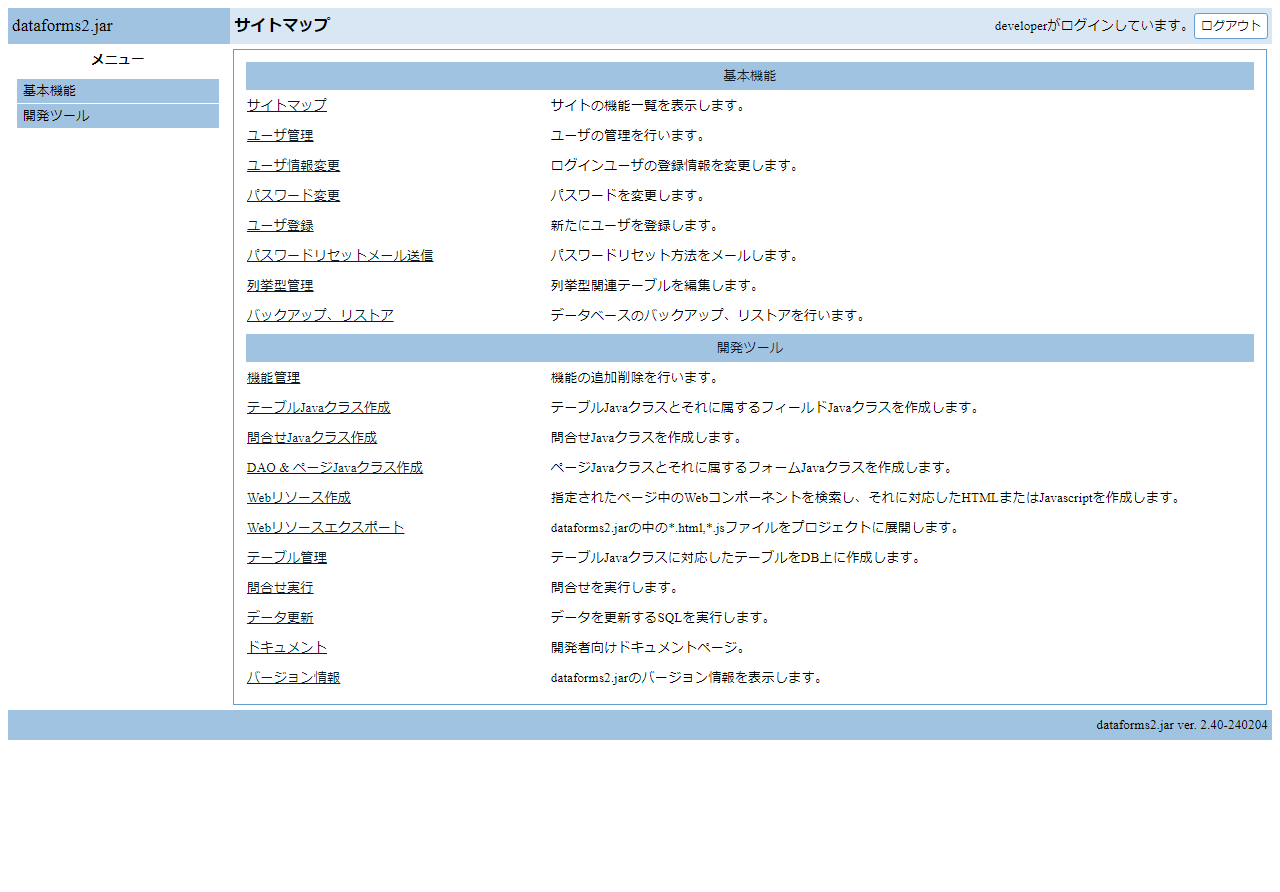
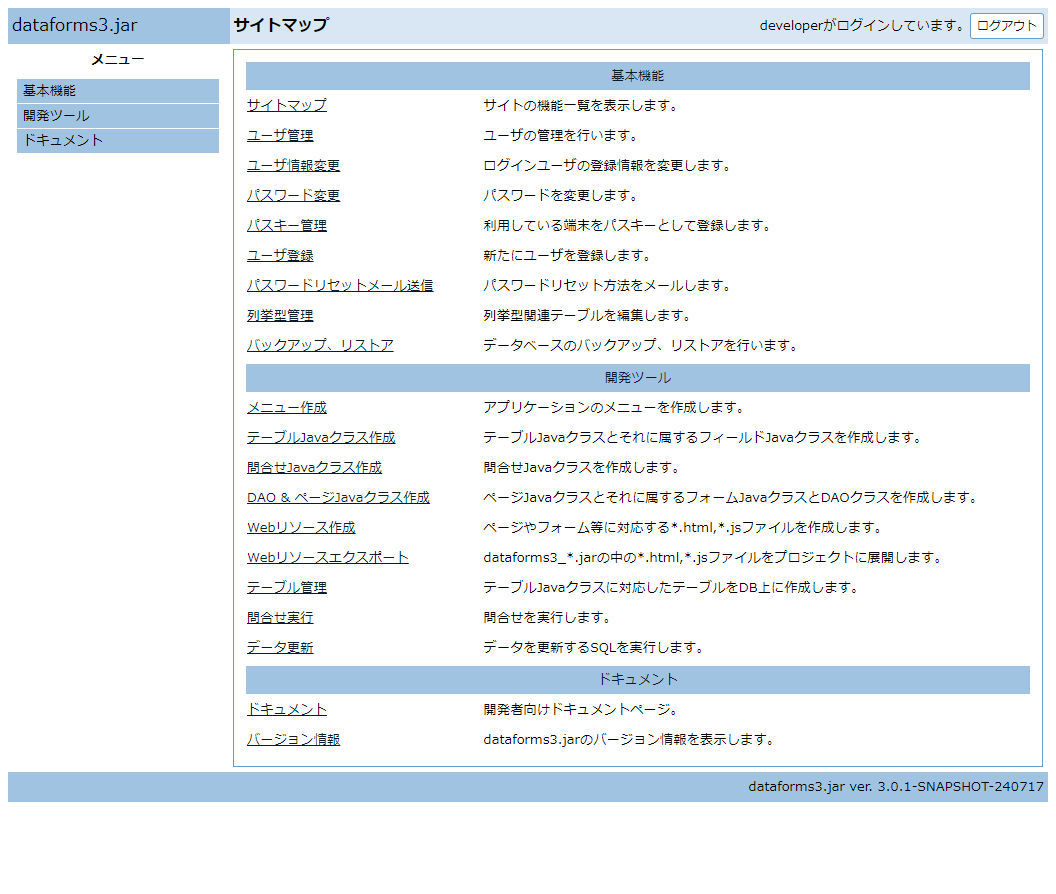
ドキュメントの修正。

Changed region(s): [[0.0, 0.0, 1.0, 0.9081], [0.7188, 0.0, 1.0, 0.1211], [0.0, 0.0, 0.125, 0.0908]]

diff --git a/src/main/java/META-INF/resources/dataforms/doc/2.2.devtool/devtool.html b/src/main/java/META-INF/resources/dataforms/doc/2.2.devtool/devtool.html
@@ -59,16 +59,16 @@
 			</thead>
 			<tbody>
 				<tr>
-					<td style="text-align: right;">1</td>
+					<td class="num">1</td>
 					<td>
-						機能管理
+						メニュー作成
 					</td>
 					<td>
 						機能(Javaのパッケージ)の追加、削除を行います。これはメニューのグループになります。
 					</td>
 				</tr>
 				<tr>
-					<td style="text-align: right;">2</td>
+					<td class="num">2</td>
 					<td>
 						テーブルJavaクラス作成
 					</td>
@@ -77,7 +77,7 @@
 					</td>
 				</tr>
 				<tr>
-					<td style="text-align: right;">3</td>
+					<td class="num">3</td>
 					<td>
 						問合せJavaクラス作成
 					</td>
@@ -86,7 +86,7 @@
 					</td>
 				</tr>
 				<tr>
-					<td style="text-align: right;">4</td>
+					<td class="num">4</td>
 					<td>
 						DAO Javaクラス作成
 					</td>
@@ -95,7 +95,7 @@
 					</td>
 				</tr>
 				<tr>
-					<td style="text-align: right;">5</td>
+					<td class="num">5</td>
 					<td>
 						ページJavaクラス作成
 					</td>
@@ -104,7 +104,7 @@
 					</td>
 				</tr>
 				<tr>
-					<td style="text-align: right;">6</td>
+					<td class="num">6</td>
 					<td>
 						Webリソース作成
 					</td>
@@ -113,7 +113,7 @@
 					</td>
 				</tr>
 				<tr>
-					<td style="text-align: right;">7</td>
+					<td class="num">7</td>
 					<td>
 						Webリソースエクスポート
 					</td>
@@ -122,7 +122,7 @@
 					</td>
 				</tr>
 				<tr>
-					<td style="text-align: right;">8</td>
+					<td class="num">8</td>
 					<td>
 						テーブル管理
 					</td>
@@ -131,12 +131,21 @@
 					</td>
 				</tr>
 				<tr>
-					<td style="text-align: right;">9</td>
+					<td class="num">9</td>
 					<td>
 						問合せ実行
 					</td>
 					<td>
 						問合せを実行します。
+					</td>
+				</tr>
+				<tr>
+					<td class="num">10</td>
+					<td>
+						データ更新
+					</td>
+					<td>
+						更新系のSQLを実行します。
 					</td>
 				</tr>
 			</tbody>
@@ -147,7 +156,7 @@
 		</p>
 		<ol>
 			<li>
-				「機能管理」を使用して、Javaのパッケージを登録します。
+				「メニュー作成」を使用して、メニューのグループとJavaのパッケージの対応表を作成します。
 			</li>
 			<li>
 				「テーブルJavaクラス作成」を使用して、テーブルのレイアウトを作成します。<br/>
@@ -206,23 +215,39 @@
 			</tbody>
 		</table>
 		<p>
-			src/main/webapp/WEB-INF/web.xmlに以下の設定を記述してください。
-			web.xmlにはサンプルの設定がコメントアウトされていますので、
-			コメントを外して適切に修正してください。
+			プロジェクト初期化ページで作成した"src/main/webapp/WEB-INF/dataforms.conf.jsonc"は
+			以下のようにソースファイルのパスが設定されており、
+			開発ツールがソースファイルを作成する際にこの設定を参照します。
 		</p>
-		<div class="filecaption">web.xmlのソースパス設定</div>
+		<div class="filecaption">dataforms.conf.jsoncのソースパス設定</div>
 		<div class="wrappre">
 			<pre>
-&lt;!-- &#38283;&#30330;&#12484;&#12540;&#12523;&#12398;java&#12477;&#12540;&#12473;&#20986;&#21147;&#12501;&#12457;&#12523;&#12480;&#12434;&#25351;&#23450;&#12375;&#12414;&#12377;&#12290; --&gt;
-&lt;context-param&gt;
-	&lt;param-name&gt;java-source-path&lt;/param-name&gt;
-	&lt;param-value&gt;/eclipse/workspace/sample/src/main/java&lt;/param-value&gt;
-&lt;/context-param&gt;
-&lt;!-- &#38283;&#30330;&#12484;&#12540;&#12523;&#12398;html,javascript&#31561;&#12398;WEB&#12522;&#12477;&#12540;&#12473;&#20986;&#21147;&#12501;&#12457;&#12523;&#12480;&#12434;&#25351;&#23450;&#12375;&#12414;&#12377;&#12290; --&gt;
-&lt;context-param&gt;
-	&lt;param-name&gt;web-source-path&lt;/param-name&gt;
-	&lt;param-value&gt;/eclipse/workspace/sample/src/main/webapp&lt;/param-value&gt;
-&lt;/context-param&gt;
+{
+	 // 開発ツール関連の設定
+	"developmentTool" : {
+		// 初期化済フラグ
+		// このフラグは開発ツールが初期化されていることを示します。
+		"initialized": true
+		// javaのソースパス
+		, "javaSourcePath": "C:/eclipse/pleiades/workspace/sample/src/main/java"
+		// HTML,jsのソースパス
+		, "webSourcePath": "C:/eclipse/pleiades/workspace/sample/src/main/webapp"
+		// テストツールの出力パス。
+		, "testSourcePath" : null
+		// 開発ツールでデータをエクスポート/インポートする際に使用するパスを指定します。
+		, "exportImportDir": "/tmp/data"
+		// ソースコード生成ツール無効設定
+		, "disableCodeGenerationTool": false
+		// DB関連ツール無効設定
+		, "disableDatabaseTool": false
+		// フィールドレイアウト
+		, "fieldLayout": "GRID"
+		// , "fieldLayout": "FLEX"
+		// , "fieldLayout": "TABLE"
+	}
+	
+	・・・
+}
 			</pre>
 		</div>
 		<h3>システム名称設定</h3>
